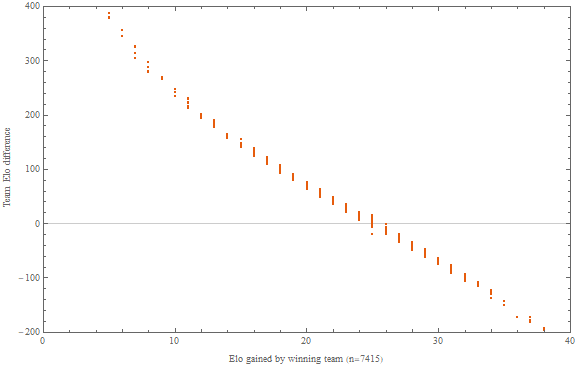
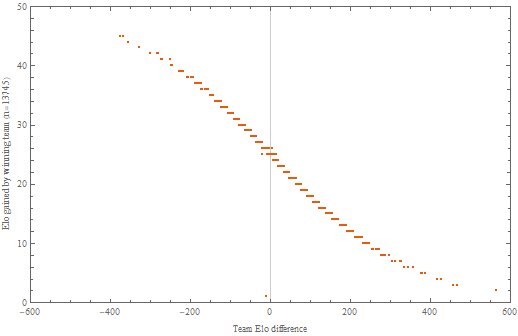
Fixed linear correlation plots and paragraph

diff --git a/plot.py b/plot.py
@@ -214,7 +214,7 @@ def figure5():
       for p in entry[2]:
         if p is None or p == 100.0:
           continue
-        l.append("{{{:.2f}, {:.2f}}}".format(p, team1_elo - team2_elo))
+        l.append("{{{:.2f}, {:.2f}}}".format(team1_elo - team2_elo, p))
 
     if entry[0] == "faction2":
       # team 2 won
@@ -223,11 +223,12 @@ def figure5():
       for p in entry[3]:
         if p is None or p == 100.0:
           continue
-        l.append("{{{:.2f}, {:.2f}}}".format( p, team2_elo - team1_elo))
+        l.append("{{{:.2f}, {:.2f}}}".format( team2_elo - team1_elo, p))
 
 
   print(",".join(l), end="")
-  print("}}; ListPlot[fig4data, ImageSize -> Large, PlotRange-> {{{{0,40}}, {{-200,400}}}}, FrameLabel -> {{\"Elo gained by winning team (n={})\", \"Team Elo difference\"}}, PlotTheme -> \"Scientific\"]".format(len(l)))
+  print("}}; ListPlot[fig4data, ImageSize -> Large, PlotRange-> {{{{-600,600}}, {{0,50}}}}, FrameLabel -> {{\"Team Elo difference\", \"Elo gained by winning team (n={})\"}}, PlotTheme -> \"Scientific\"]".format(len(l)))
+  print("Show[ListPlot[fig4data, ImageSize -> Large, PlotRange-> {{{{-600,600}}, {{0,50}}}}, FrameLabel -> {{\"Team Elo difference\", \"Elo gained by winning team (n={})\"}}, PlotTheme -> \"Scientific\"], Plot[50/(1+10^(x/400)), {{x, -600, 600}}] ]".format(len(l)))
 
 ##########################
 
@@ -364,8 +365,6 @@ def figure9():
       upper_error = upper - p
       lower_error = lower - p
 
-    print(n)
-
     pos = float(a + b) / 2
     print("{{{:.4f}, Around[{:.4f},{{{:.3f}, {:.3f}}}]}}".format(pos, p, upper_error, lower_error), end="")
 
@@ -375,4 +374,4 @@ def figure9():
   print("}},PlotTheme -> \"Detailed\", PlotMarkers -> {{Graphics[{{Disk[]}}], 0.03}}, ImageSize -> Large, PlotTheme -> \"Scientific\", FrameLabel -> {{\"Estimated win probability (n={})\", \"Observed win probability\"}}, PlotRangeClipping -> True], Plot[t,{{t,0,1}}, PlotStyle -> {{Dashed, Darker[Green]}}], PlotRange->{{{{0, 1}},{{0, 1}}}}]".format(fig9.cnt))
 
 if __name__ == '__main__':
-  figure6()
+  figure9()

diff --git a/README.md b/README.md
@@ -21,6 +21,7 @@ I hope you enjoy the writeup and learn something new!
 
 **Updates**
 
+- 08-03-2020: Fixed the elo change vs. elo difference plot and analysis
 - 26-02-2020: Updated plots to show the latest data
 - 21-02-2020: Added another example of weird Elo data
 
@@ -89,11 +90,17 @@ A successfully played match (no quitters, cheaters, etc.) will cause the ratings
 
 *Figure 5. The points gained from a match with Team Elo difference*
 
-There is a clear linear correlation between the absolute Elo gained / lost and the team Elo difference. If the difference between the Team Elo is 0 (i.e. the teams have exactly the same approximated skill level) the Elo gain/loss is 25. Anyone who has played FACEIT knows that this is the most common Elo change. The reason that the differences are stacked in columns is that FACEIT stores their ratings and similarly rating changes as integers, so the Elo ratings and changes are always rounded/floored to the nearest integer. If this weren't the case, my assumption is that the points would form a neat line. 
+There is a clear ~~linear correlation~~ logistic correlation between the absolute Elo gained / lost and the team Elo difference. If the difference between the Team Elo is 0 (i.e. the teams have exactly the same approximated skill level) the Elo gain/loss is 25. Anyone who has played FACEIT knows that this is the most common Elo change. The reason that the differences are stacked in columns is that FACEIT stores their ratings and similarly rating changes as integers, so the Elo ratings and changes are always rounded/floored to the nearest integer. ~~If this weren't the case, my assumption is that the points would form a neat line.~~
 
-The higher the winning team's Elo is compared to the losing team, the fewer points they get for a win. If your team wins with 500 more Elo you will only gain only around 3 points and the losing team will only lose 3. If your team **loses** with 500 more Elo, the change is dramatic at around 47 points lost/gained since it was an upset match.
+The higher the winning team's Elo is compared to the losing team, the fewer points they get for a win. If your team wins with 500 more Elo you will only gain only around 3 points and the losing team will only lose 3. If your team **loses** with 500 more Elo, the change is dramatic at around 47 points lost/gained since it was an upset match. The bigger the team Elo difference is, the more dramatic the point change becomes.
 
-Based on just this linear correlation alone, we can be quite certain that FACEIT does use the original Elo system where the rating of a single participant is the average rating of all team participants (i.e. Team Elo). If they used e.g. Glicko or TrueSkill, you could gain different amounts of Elo for the same Team Elo difference which is not what we see in the plot.
+Let's compare the plot to a plot of the logistic function 50/(1+10^(x/400)) which describes the point changes in the Elo system with K=50.
+
+![Figure 5.1](images/figure51.png)
+
+*Figure 5.1. Figure 5 with additional plot of y=50/(1+10^(x/400))*
+
+Based on just this ~~linear correlation~~ logistic correlation alone, we can be quite certain that FACEIT does use the original Elo system where the rating of a single participant is the average rating of all team participants (i.e. Team Elo). If they used e.g. Glicko or TrueSkill, you could gain different amounts of Elo for the same Team Elo difference which is not what we see in the plot.
 
 **3.4 K-Factor**
 
